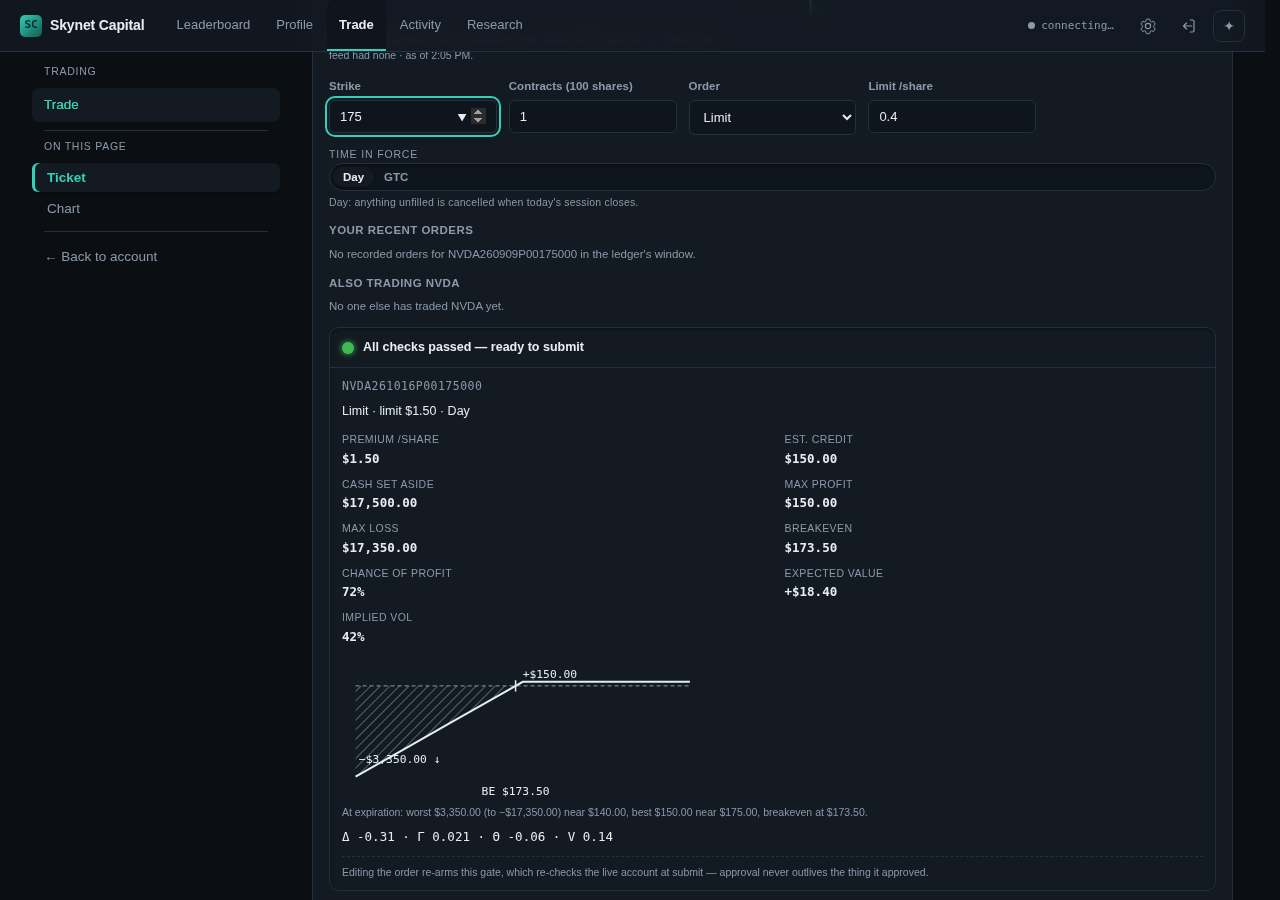
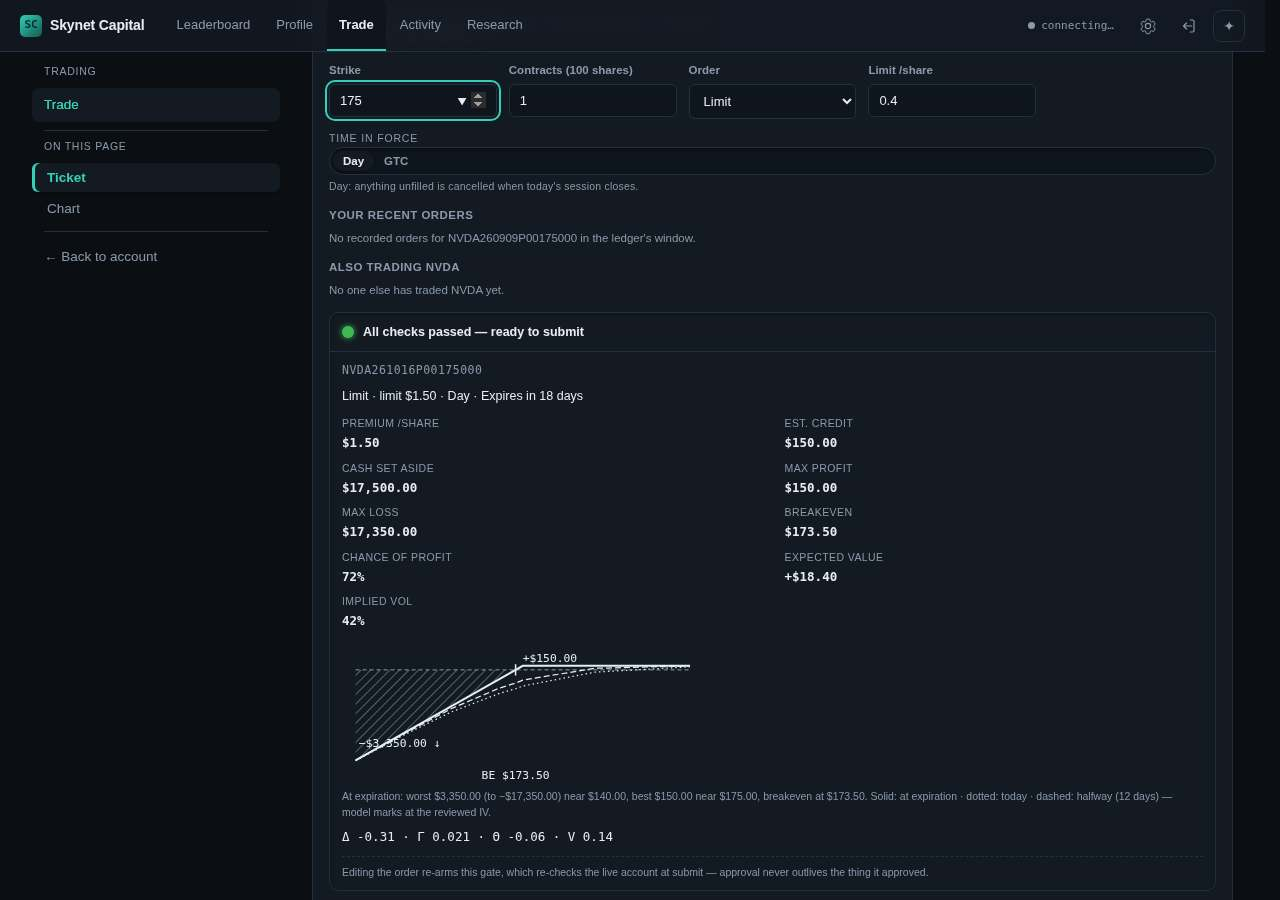
feat(trade): today and halfway model lines on the single-leg payoff diagram (#3407)
The study's row 9 adapted thinkorswim's Risk Profile as an expiration
curve plus a today curve. payoff-surface.ts already priced any date and
was unwired; datedCurves marks the same sampled prices at t=0 and
halfway to expiry at the reviewed IV, only when the ticket has that IV
and the clock. The chart draws them dotted and dashed under the solid
expiration line and names each style in the caption.

Claude-Session: https://claude.ai/code/session_017oqoJJkT7tZNPMAAJyQqvZ

diff --git a/app/src/shell/payoff-chart.tsx b/app/src/shell/payoff-chart.tsx
@@ -1,6 +1,6 @@
 import type { ReactElement } from "react";
 import { useId } from "react";
-import type { PayoffCurve } from "../live/draft-order";
+import type { PayoffCurve, PayoffPoint } from "../live/draft-order";
 import { money } from "../live/ticket";
 
 /**
@@ -20,6 +20,15 @@ const WIDTH = 320;
 const HEIGHT = 120;
 const PAD = { top: 14, right: 12, bottom: 22, left: 12 };
 
+/** "dotted: today · dashed: halfway (14 days)" — the legend a line style needs to be read. */
+function legend(dated: readonly { label: string; daysForward: number }[]): string {
+  return dated
+    .map((line) =>
+      line.label === "today" ? "dotted: today" : `dashed: ${line.label} (${line.daysForward} days)`,
+    )
+    .join(" · ");
+}
+
 export function PayoffChart({
   curve,
   maxLoss,
@@ -30,7 +39,9 @@ export function PayoffChart({
   const hatchId = useId();
   const { points, breakevens, from, to } = curve;
   if (points.length < 2 || to <= from) return null;
-  const pnls = points.map((p) => p.pnl);
+  const dated = curve.dated ?? [];
+  // The scale fits every line, so a T+0 curve that dips past the expiration plateau still shows.
+  const pnls = [...points, ...dated.flatMap((line) => line.points)].map((p) => p.pnl);
   const lo = Math.min(0, ...pnls);
   const hi = Math.max(0, ...pnls);
   const span = hi - lo || 1;
@@ -38,9 +49,11 @@ export function PayoffChart({
     PAD.left + ((price - from) / (to - from)) * (WIDTH - PAD.left - PAD.right);
   const y = (pnl: number) => PAD.top + ((hi - pnl) / span) * (HEIGHT - PAD.top - PAD.bottom);
   const zero = y(0);
-  const path = points
-    .map((p, i) => `${i === 0 ? "M" : "L"}${x(p.price).toFixed(1)} ${y(p.pnl).toFixed(1)}`)
-    .join(" ");
+  const pathOf = (line: readonly PayoffPoint[]): string =>
+    line
+      .map((p, i) => `${i === 0 ? "M" : "L"}${x(p.price).toFixed(1)} ${y(p.pnl).toFixed(1)}`)
+      .join(" ");
+  const path = pathOf(points);
   const area = `${path} L${x(points[points.length - 1]?.price ?? to).toFixed(1)} ${zero.toFixed(1)} L${x(points[0]?.price ?? from).toFixed(1)} ${zero.toFixed(1)} Z`;
   // The first point reaching each extreme names it; the label sits at the END of that plateau
   // (the last point still at the extreme), off the slope that leads into it.
@@ -94,6 +107,17 @@ export function PayoffChart({
             </text>
           </g>
         ))}
+        {/* Before expiry, the same structure marked at the reviewed IV: dotted for today, dashed
+            for halfway — the line style names the date, never a hue (a standing reader is
+            red/green colourblind). Drawn under the expiration line so the hard edge stays on top. */}
+        {dated.map((line) => (
+          <path
+            key={line.label}
+            d={pathOf(line.points)}
+            className={`payoff-dated payoff-dated-${line.label}`}
+            aria-label={`${line.label}: model P&L ${line.daysForward} days forward`}
+          />
+        ))}
         <path d={path} className="payoff-line" />
         <text
           x={x(worstEnd.price) + (worstEnd === points[0] ? 3 : 0)}
@@ -114,7 +138,12 @@ export function PayoffChart({
           {`+${money(best.pnl)}`}
         </text>
       </svg>
-      <figcaption className="payoff-caption">{summary}</figcaption>
+      <figcaption className="payoff-caption">
+        {summary}
+        {dated.length
+          ? ` Solid: at expiration · ${legend(dated)} — model marks at the reviewed IV.`
+          : ""}
+      </figcaption>
     </figure>
   );
 }

diff --git a/src/trading/draft-order-preview.ts b/src/trading/draft-order-preview.ts
@@ -1,3 +1,4 @@
+import { type StructureLeg, structureValue } from "../options/payoff-surface.js";
 import { type DraftLeg, type DraftOrder, undefinedRiskLegs } from "./draft-order.js";
 import { SHARES_PER_CONTRACT } from "./option-economics.js";
 
@@ -49,6 +50,66 @@ export interface PayoffCurve {
   /** The sampled window: 20% below the lowest strike to 20% above the highest. */
   readonly from: number;
   readonly to: number;
+  /** Model marks BEFORE expiration (thinkorswim's T+0 line; #3407 row 9) — absent when the
+   *  legs have no IV to price them with. What-if numbers, never money that moved. */
+  readonly dated?: readonly DatedCurve[];
+}
+
+/** One pre-expiration line: the structure marked at every sampled price, `daysForward` from
+ *  now, at the IV it was reviewed at. */
+export interface DatedCurve {
+  readonly label: "today" | "halfway";
+  readonly daysForward: number;
+  readonly points: readonly PayoffPoint[];
+}
+
+/** What the model needs beyond the legs to mark them before expiry. One IV for every leg —
+ *  the single-leg ticket's own; a per-leg IV is the multi-leg builder's next slice. */
+export interface DatedModel {
+  readonly volatility: number;
+  readonly daysToExpiry: number;
+}
+
+/**
+ * The T+0 and halfway lines through the same prices as the expiration curve, each point the
+ * whole structure's model value less what opening it costs (`payoff-surface.ts`; European,
+ * constant-vol, dividend-free — the pricing core's caveats carry over). Nothing for a contract
+ * inside two days of expiry: today and halfway would both sit on the expiration line.
+ */
+export function datedCurves(
+  legs: readonly DraftLeg[],
+  prices: readonly number[],
+  model: DatedModel,
+  stock?: StockComponent,
+): readonly DatedCurve[] | undefined {
+  if (!(model.daysToExpiry >= 2 && model.volatility > 0)) return undefined;
+  if (legs.some((leg) => leg.limitPrice === undefined)) return undefined;
+  const structure: StructureLeg[] = legs.map((leg) => ({
+    kind: leg.optionType,
+    quantity: (leg.action === "buy" ? 1 : -1) * leg.contracts,
+    strike: leg.strike,
+    daysToExpiry: model.daysToExpiry,
+    volatility: model.volatility,
+    entryPrice: leg.limitPrice ?? 0,
+  }));
+  if (stock) structure.push({ kind: "stock", quantity: stock.shares, entryPrice: stock.basis });
+  const entryCost = structure.reduce(
+    (sum, leg) =>
+      sum + leg.quantity * (leg.kind === "stock" ? 1 : SHARES_PER_CONTRACT) * leg.entryPrice,
+    0,
+  );
+  const line = (label: DatedCurve["label"], daysForward: number): DatedCurve | undefined => {
+    const points: PayoffPoint[] = [];
+    for (const price of prices) {
+      const value = structureValue(structure, { spot: price, daysForward });
+      if (value === undefined) return undefined;
+      points.push({ price, pnl: round2(value - entryCost) });
+    }
+    return { label, daysForward, points };
+  };
+  const today = line("today", 0);
+  const halfway = line("halfway", round2(model.daysToExpiry / 2));
+  return today && halfway ? [today, halfway] : undefined;
 }
 
 /** Shares riding along with the legs — a covered call's 100 held shares per contract, valued

diff --git a/src/trading/option-ticket.ts b/src/trading/option-ticket.ts
@@ -1,6 +1,6 @@
 import { tradeTypeByCode } from "../domain/trade-types.js";
 import { singleLegOdds } from "../options/single-leg-odds.js";
-import { payoffCurve } from "./draft-order-preview.js";
+import { datedCurves, payoffCurve } from "./draft-order-preview.js";
 import {
   DEFAULT_OPTION_TIF,
   OPTION_PLAY_LEVEL,
@@ -208,14 +208,7 @@ function decisionInputs(
   const scale = request.contracts * SHARES_PER_CONTRACT;
   return {
     ...oddsFor(request, context, premium, scale),
-    ...curveFor(
-      request,
-      leg.underlying,
-      leg.optionType,
-      leg.side,
-      premium,
-      context.underlyingPrice,
-    ),
+    ...curveFor(request, leg.underlying, leg.optionType, leg.side, premium, context),
   };
 }
 
@@ -228,27 +221,40 @@ function curveFor(
   optionType: "call" | "put",
   side: "buy" | "sell",
   premium: number | undefined,
-  spot: number | undefined,
+  context: OptionTicketContext,
 ): Pick<OptionTicketPreview, "payoff"> {
   if (premium === undefined) return {};
+  const spot = context.underlyingPrice;
   const scale = request.contracts * SHARES_PER_CONTRACT;
   if (request.code === "202" && spot === undefined) return {};
-  const payoff = payoffCurve(
-    [
-      {
-        id: "leg",
-        underlying,
-        optionType,
-        strike: request.strike,
-        expiration: request.expiration,
-        action: side,
-        contracts: request.contracts,
-        limitPrice: premium,
-      },
-    ],
-    request.code === "202" && spot !== undefined ? { shares: scale, basis: spot } : undefined,
-  );
-  return payoff ? { payoff } : {};
+  const legs = [
+    {
+      id: "leg",
+      underlying,
+      optionType,
+      strike: request.strike,
+      expiration: request.expiration,
+      action: side,
+      contracts: request.contracts,
+      limitPrice: premium,
+    },
+  ];
+  const stock =
+    request.code === "202" && spot !== undefined ? { shares: scale, basis: spot } : undefined;
+  const payoff = payoffCurve(legs, stock);
+  if (!payoff) return {};
+  // The pre-expiration lines (#3407 row 9) need the IV and the clock the odds already need;
+  // without them the chart draws expiration alone, never a guessed line.
+  const dated =
+    context.impliedVol !== undefined && context.daysToExpiry !== undefined
+      ? datedCurves(
+          legs,
+          payoff.points.map((p) => p.price),
+          { volatility: context.impliedVol, daysToExpiry: context.daysToExpiry },
+          stock,
+        )
+      : undefined;
+  return { payoff: dated ? { ...payoff, dated } : payoff };
 }
 
 /** Chance of profit and expected value for the order (#3407 P2 slice 2) — only when every input

diff --git a/tests/trading/draft-order-preview.spec.ts b/tests/trading/draft-order-preview.spec.ts
@@ -1,5 +1,5 @@
 import { addLeg, emptyDraft, type NewLeg } from "../../src/trading/draft-order.js";
-import { draftPreview, payoffCurve } from "../../src/trading/draft-order-preview.js";
+import { datedCurves, draftPreview, payoffCurve } from "../../src/trading/draft-order-preview.js";
 
 /**
  * Slice 3's pure half: the payoff arithmetic behind the review screen. The interesting cases are
@@ -87,6 +87,39 @@ describe("draftPreview", () => {
       const bare = alone.points[i]?.pnl ?? Number.NaN;
       expect(point.pnl).toBeCloseTo(bare + (point.price - 170) * 100 * SHORT_CALL.contracts);
     }
+  });
+
+  it("marks the same prices before expiry: today under the expiration line for a short leg", () => {
+    const short = addLeg(emptyDraft(), SHORT_CALL);
+    const curve = payoffCurve(short.legs);
+    if (!curve) throw new Error("expected a curve");
+    const prices = curve.points.map((p) => p.price);
+    const dated = datedCurves(short.legs, prices, { volatility: 0.4, daysToExpiry: 30 });
+    expect(dated?.map((line) => line.label)).toEqual(["today", "halfway"]);
+    expect(dated?.[1]?.daysForward).toBe(15);
+    for (const line of dated ?? []) {
+      expect(line.points.map((p) => p.price)).toEqual(prices);
+    }
+    // At the strike a short call still carries time value before expiry, so its mark-to-model
+    // P&L sits below the expiration line's full credit there; halfway lies between the two.
+    const at = (line: { points: readonly { price: number; pnl: number }[] }) =>
+      line.points.find((p) => p.price === SHORT_CALL.strike)?.pnl ?? Number.NaN;
+    const expiry = at(curve);
+    const today = dated?.[0] ? at(dated[0]) : Number.NaN;
+    const halfway = dated?.[1] ? at(dated[1]) : Number.NaN;
+    expect(today).toBeLessThan(halfway);
+    expect(halfway).toBeLessThan(expiry);
+  });
+
+  it("draws no dated line inside two days of expiry, without an IV, or for an unpriced leg", () => {
+    const short = addLeg(emptyDraft(), SHORT_CALL);
+    const prices = [170, 180, 190];
+    expect(datedCurves(short.legs, prices, { volatility: 0.4, daysToExpiry: 1 })).toBeUndefined();
+    expect(datedCurves(short.legs, prices, { volatility: 0, daysToExpiry: 30 })).toBeUndefined();
+    const unpriced = addLeg(emptyDraft(), { ...SHORT_CALL, limitPrice: undefined });
+    expect(
+      datedCurves(unpriced.legs, prices, { volatility: 0.4, daysToExpiry: 30 }),
+    ).toBeUndefined();
   });
 
   it("carries no curve for an empty draft", () => {

diff --git a/app/tests/shell/payoff-chart.spec.tsx b/app/tests/shell/payoff-chart.spec.tsx
@@ -60,6 +60,29 @@ describe("PayoffChart", () => {
     );
   });
 
+  it("draws the dated lines in distinct dash styles and names them in the caption", () => {
+    const dated = [
+      {
+        label: "today" as const,
+        daysForward: 0,
+        points: curve.points.map((p) => ({ ...p, pnl: p.pnl - 400 })),
+      },
+      {
+        label: "halfway" as const,
+        daysForward: 14,
+        points: curve.points.map((p) => ({ ...p, pnl: p.pnl - 200 })),
+      },
+    ];
+    const { container } = render(<PayoffChart curve={{ ...curve, dated }} maxLoss={1690} />);
+    expect(container.querySelector(".payoff-dated-today")).not.toBeNull();
+    expect(container.querySelector(".payoff-dated-halfway")).not.toBeNull();
+    expect(container.querySelector("figcaption")?.textContent).toContain(
+      "Solid: at expiration · dotted: today · dashed: halfway (14 days) — model marks at the reviewed IV.",
+    );
+    // The expiration labels stay the expiration line's own numbers.
+    expect(screen.getByText("−$1,690.00")).toBeInTheDocument();
+  });
+
   it("draws nothing for a curve with fewer than two points", () => {
     const { container } = render(
       <PayoffChart curve={{ ...curve, points: [{ price: 180, pnl: 0 }] }} maxLoss={0} />,

diff --git a/tests/trading/option-ticket.spec.ts b/tests/trading/option-ticket.spec.ts
@@ -211,6 +211,21 @@ describe("the payoff curve on the order screen (#3407 — the single-leg diagram
     expect(noSpot.payoff).toBeUndefined();
   });
 
+  it("adds today and halfway lines only with the IV and the clock the odds already need", () => {
+    const withModel = previewOptionOrder(
+      csp,
+      context({ underlyingPrice: 428.6, impliedVol: 0.3, daysToExpiry: 20 }),
+    );
+    expect(withModel.payoff?.dated?.map((line) => line.label)).toEqual(["today", "halfway"]);
+    expect(withModel.payoff?.dated?.[1]?.daysForward).toBe(10);
+    expect(withModel.payoff?.dated?.[0]?.points.map((p) => p.price)).toEqual(
+      withModel.payoff?.points.map((p) => p.price),
+    );
+    const noModel = previewOptionOrder(csp, context({ underlyingPrice: 428.6 }));
+    expect(noModel.payoff).toBeDefined();
+    expect(noModel.payoff?.dated).toBeUndefined();
+  });
+
   it("a long option's curve needs no spot, and a refused order carries none", () => {
     const call = previewOptionOrder(
       { ...csp, code: "302", contracts: 1, strike: 430, limitPrice: 8 },

diff --git a/app/src/live/draft-order.ts b/app/src/live/draft-order.ts
@@ -49,6 +49,14 @@ export interface PayoffCurve {
   readonly breakevens: readonly number[];
   readonly from: number;
   readonly to: number;
+  /** Model marks before expiry (today, halfway) — absent when the server had no IV. */
+  readonly dated?: readonly DatedCurve[];
+}
+
+export interface DatedCurve {
+  readonly label: "today" | "halfway";
+  readonly daysForward: number;
+  readonly points: readonly PayoffPoint[];
 }
 
 export interface DraftPreview {

diff --git a/app/src/styles/draft-builder.css b/app/src/styles/draft-builder.css
@@ -95,6 +95,18 @@
   stroke-width: 2;
   vector-effect: non-scaling-stroke;
 }
+.payoff-dated {
+  fill: none;
+  stroke: var(--text);
+  stroke-width: 1.25;
+  vector-effect: non-scaling-stroke;
+}
+.payoff-dated-today {
+  stroke-dasharray: 1.5 3;
+}
+.payoff-dated-halfway {
+  stroke-dasharray: 6 3;
+}
 .payoff-zero {
   stroke: var(--muted);
   stroke-width: 1;

diff --git a/docs/research/trading-parity-2026-09.md b/docs/research/trading-parity-2026-09.md
@@ -710,7 +710,7 @@ plan, not a constraint on the designs.
 | Trade a single option leg (201/202/301/302) | exists — limit / market | `option-gate.tsx`, `src/trading/option-ticket.ts` |
 | Greeks / probability on the order being placed | missing — chain-only, never on the ticket or preview | `app/src/live/options.ts:76-98` |
 | Max profit / max loss / breakeven | exists (single leg and spread preview) | `app/src/shell/option-preview.tsx:32-52`, `draft-order-builder.tsx:78-102` |
-| Payoff diagram | **built** (multi-leg review and the single-leg ticket) — the server samples the at-expiration curve through every strike (a covered call carries its shares); the review draws it with the loss side hatched, breakevens ticked, extremes in words, and says when the loss keeps going past the window | `src/trading/draft-order-preview.ts` `payoffCurve`, `option-ticket.ts` `curveFor`, `app/src/shell/payoff-chart.tsx` |
+| Payoff diagram | **built** (multi-leg review and the single-leg ticket) — the server samples the at-expiration curve through every strike (a covered call carries its shares); the review draws it with the loss side hatched, breakevens ticked, extremes in words, and says when the loss keeps going past the window; the single-leg ticket adds today and halfway model lines at the reviewed IV | `src/trading/draft-order-preview.ts` `payoffCurve` / `datedCurves`, `option-ticket.ts` `curveFor`, `app/src/shell/payoff-chart.tsx` |
 | Review then confirm, disarm on edit | exists, both tickets; the server re-checks the live account at submit | `trade-gate.tsx:35-41,190-195`, `option-preview.tsx:15-21` |
 | Build a vertical / multi-leg spread | **built** (P3 slices 2, 4) — legs off the chain, each leg's premium editable in its row, a running net while drafting, validates, previews payoff | `app/src/shell/draft-order-builder.tsx`, `draft-leg-form.tsx`, `draft-leg-row.tsx` |
 | **Submit** a multi-leg spread | **built** (P3 slice 1) — one `mleg` order through `draft-trade-service.ts`; the headline is the broker's echo; the wiring into the protected gate is its own held PR | `src/server/draft-trade-service.ts`, `src/server/draft-order-route.ts` |
@@ -874,7 +874,7 @@ missing. Two prior decisions were added to §3.4: #674 (open orders live on the 
 | Watchlist | lists + pending badge [R22][R21] | multiple lists, sync [F27][F38] | linked, dynamic [T-Q] | missing | build (P4) | persisted member state |
 | Alerts / notifications | price, options, order-status push [R24][R25][R27] | four alert types, push/text/email [F38] | any value, push/email/SMS [T-AL] | **built-unwired** — `src/alerts/*` substrate (#586), no delivery | build (P4) — delivery keys are Eric's step | push/email credentials (irreversible class) |
 | Greeks / probability on the order screen | tap-a-strike shows greeks + chance of profit [R36] | multi-select shows PoP, max P/L [F38] | Probability ITM/OTM columns [T-DP] | **built** (P2 slice 2) — greeks, IV from the mid, chance of profit beside expected value on the review (`src/options/single-leg-odds.ts`, `option-preview.tsx`) | build (P2) | done; the payoff diagram inline is the falsifier's next move |
-| Payoff diagram | Simulated Returns, P/L chart [R38][R40] | P/L calculator [F39] | Risk Profile [T-AN] | **built** on the multi-leg review and the single-leg ticket (at-expiration, `payoff-chart.tsx`); the time × IV surface (`payoff-surface.ts`) stays unwired | the dated curves: next-slice | presentation only |
+| Payoff diagram | Simulated Returns, P/L chart [R38][R40] | P/L calculator [F39] | Risk Profile [T-AN] | **built** on the multi-leg review and the single-leg ticket (`payoff-chart.tsx`); the single-leg ticket also draws today and halfway from `payoff-surface.ts` at the reviewed IV (dotted / dashed, named in the caption) | per-leg IV for the multi-leg builder's dated lines: next-slice | presentation only |
 | Strategy templates / builder | Strategy Builder [R37] | strategy dropdown, Strategy Builder [F25][F34] | spread menu, Spread Hacker [T-VS][T-SCAN] | **built-unwired** — `rankStructures` + `outlook.ts` (#587, #2170) | build (P3) | presentation over the ranked list |
 | All expirations / LEAPS | scroll right [R34] | weekly/monthly/quarterly/all filters [F25] | weekly/quarterly toggles [T-SETUP] | **built** (P2 slice 1) — paginated with a 3-page budget and one 429 retry (`getExpirations`) | fix (P2) | done; weekly / monthly filters are a layout slice |
 | IV on the chain | IV metric [R36] | IV column [F-frames 13] | Impl Vol, SD strikes [T-AP] | missing on the desk | build (P2) | solve from mid via `pricing.ts` |
